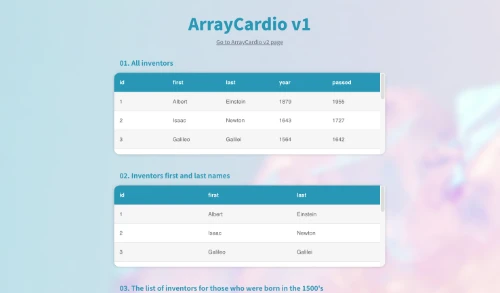
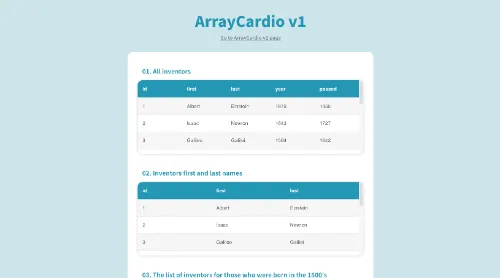
adjust: home page base image

diff --git a/src/Assets/Homepage/base/index.jsx b/src/Assets/Homepage/base/index.jsx
@@ -1,32 +1,63 @@
-import base01 from './01.png';
-import base02 from './02.png';
-import base03 from './03.png';
-import base04 from './04.png';
-import base05 from './05.png';
-import base06 from './06.png';
-import base07 from './07.png';
-import base08 from './08.png';
-import base09 from './09.png';
-import base10 from './10.png';
-import base11 from './11.png';
-import base12 from './12.png';
-import base13 from './13.png';
-import base14 from './14.png';
-import base15 from './15.png';
-import base16 from './16.png';
-import base17 from './17.png';
-import base18 from './18.png';
-import base19 from './19.png';
-import base20 from './20.png';
-import base21 from './21.png';
-import base22 from './22.png';
-import base23 from './23.png';
-import base24 from './24.png';
-import base25 from './25.png';
-import base26 from './26.png';
-import base27 from './27.png';
-import base28 from './28.png';
-import base29 from './29.png';
-import base30 from './30.png';
+import base01 from './01.jpg';
+import base02 from './02.jpg';
+import base03 from './03.jpg';
+import base04 from './04.jpg';
+import base05 from './05.jpg';
+import base06 from './06.jpg';
+import base07 from './07.jpg';
+import base08 from './08.jpg';
+import base09 from './09.jpg';
+import base10 from './10.jpg';
+import base11 from './11.jpg';
+import base12 from './12.jpg';
+import base13 from './13.jpg';
+import base14 from './14.jpg';
+import base15 from './15.jpg';
+import base16 from './16.jpg';
+import base17 from './17.jpg';
+import base18 from './18.jpg';
+import base19 from './19.jpg';
+import base20 from './20.jpg';
+import base21 from './21.jpg';
+import base22 from './22.jpg';
+import base23 from './23.jpg';
+import base24 from './24.jpg';
+import base25 from './25.jpg';
+import base26 from './26.jpg';
+import base27 from './27.jpg';
+import base28 from './28.jpg';
+import base29 from './29.jpg';
+import base30 from './30.jpg';
 
-export { base01, base02, base03, base04, base05, base06, base07, base08, base09, base10, base11, base12, base13, base14, base15, base16, base17, base18, base19, base20, base21, base22, base23, base24, base25, base26, base27, base28, base29, base30 };
+export {
+  base01,
+  base02,
+  base03,
+  base04,
+  base05,
+  base06,
+  base07,
+  base08,
+  base09,
+  base10,
+  base11,
+  base12,
+  base13,
+  base14,
+  base15,
+  base16,
+  base17,
+  base18,
+  base19,
+  base20,
+  base21,
+  base22,
+  base23,
+  base24,
+  base25,
+  base26,
+  base27,
+  base28,
+  base29,
+  base30,
+};

diff --git a/src/Pages/07ArrayCardio/styles.module.scss b/src/Pages/07ArrayCardio/styles.module.scss
@@ -1,24 +1,11 @@
 .page {
+  position: relative;
+
   width: 100%;
   min-height: 100%;
   padding: 2rem;
-  background-image: url('../../Assets/07bg.jpg');
 
-  &::after {
-    content: '';
-
-    position: fixed;
-    top: 0;
-    left: 0;
-
-    display: block;
-
-    width: 100%;
-    height: 100%;
-
-    background-color: rgba($color: #fff, $alpha: 20%);
-    backdrop-filter: blur(0.5rem);
-  }
+  background-color: #d3d5f0;
 }
 
 .title {
@@ -55,6 +42,10 @@
 
   max-width: 800px;
   margin: 0 auto 3rem;
+  padding: 3rem 2rem;
+
+  background-color: #fff;
+  border-radius: 1rem;
 }
 
 .hr {

diff --git a/src/Pages/04ArrayCardio/styles.module.scss b/src/Pages/04ArrayCardio/styles.module.scss
@@ -1,24 +1,11 @@
 .page {
+  position: relative;
+
   width: 100%;
   min-height: 100%;
   padding: 2rem;
-  background-image: url('../../Assets/07bg.jpg');
 
-  &::after {
-    content: '';
-
-    position: fixed;
-    top: 0;
-    left: 0;
-
-    display: block;
-
-    width: 100%;
-    height: 100%;
-
-    background-color: rgba($color: #fff, $alpha: 30%);
-    backdrop-filter: blur(0.5rem);
-  }
+  background-color: #cce5eb;
 }
 
 .title {
@@ -55,4 +42,8 @@
 
   max-width: 800px;
   margin: 0 auto 3rem;
+  padding: 3rem 2rem;
+
+  background-color: #fff;
+  border-radius: 1rem;
 }
